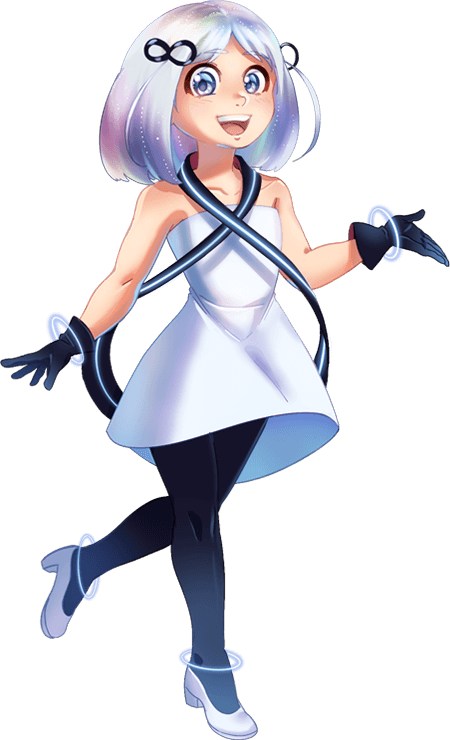
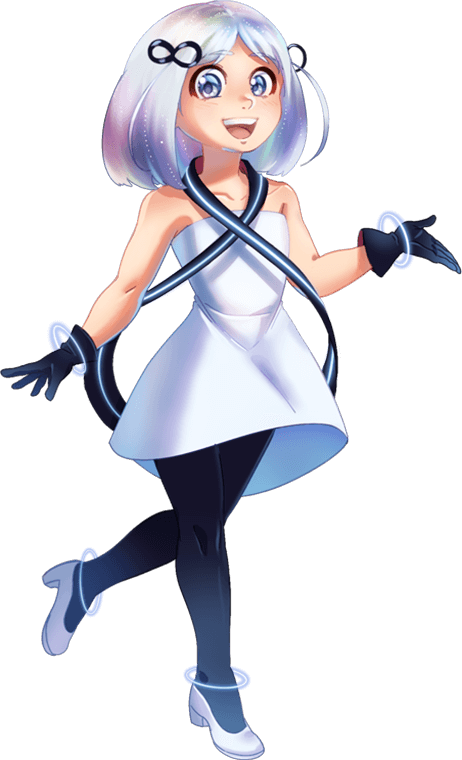
.

diff --git a/src/base/css/popup.css b/src/base/css/popup.css
@@ -63,7 +63,7 @@ html, body {
 /* Drawer */
 
 .mdc-drawer {
-  width: 215px;
+  width: 210px;
 }
 
 .mdc-drawer__header {
@@ -90,7 +90,7 @@ html, body {
 #drawer-mascot {
   position: absolute;
   margin-left: -16px;
-  margin-top: -14px;
+  margin-top: -4px;
 }
 
 main {
@@ -361,7 +361,7 @@ header {
 /* Switches */
 
 #setup #switches {
-  margin-left: 180px;
+  margin-left: 150px;
 }
 
 #setup #switches > div:not(:last-child) {

diff --git a/src/base/js/ui.js b/src/base/js/ui.js
@@ -82,6 +82,10 @@ var MDC = {
     return [el.id, new mdc.checkbox.MDCCheckbox(el)];
   })),
 
+  chipsets: new Map([].map.call(document.querySelectorAll('.mdc-chip-set'), function(el) {
+    return [el.id, new mdc.chips.MDCChipSet(el)];
+  })),
+
   chips: new Map([].map.call(document.querySelectorAll('.mdc-chip'), function(el) {
     return [el.id, new mdc.chips.MDCChip(el)];
   })),

diff --git a/src/base/css/ui.css b/src/base/css/ui.css
@@ -498,7 +498,7 @@ input[type="number"]:hover, input[type="number"]:focus {
 /* Shared Popup / Options Styling */
 
 .mascot {
-  height: 390px;
+  height: 380px;
   z-index: 2147483647;
 }
 

diff --git a/docs/VERSION.md b/docs/VERSION.md
@@ -6,7 +6,7 @@
 - Add in the Import/Export Saved URLs feature as suggested by LP. Want to wait a bit on this one because we may want to trim the saves first to only the parameters they need. Maybe when Infy gets out of beta
 
 ## Version 0.5
-<b>Released on 11/?/2020</b>
+<b>Released on 11/20/2020</b>
 - *Consolidated Actions. Combined the Next and Prev actions together and the Increment and Decrement actions together
 - Now displaying the Database URL and Saved URL to the icon titles in the button controls when you hover over them
 - Added a way to turn off UI messages when the message appears in the Popup. Now shows OK and Don't show this again
